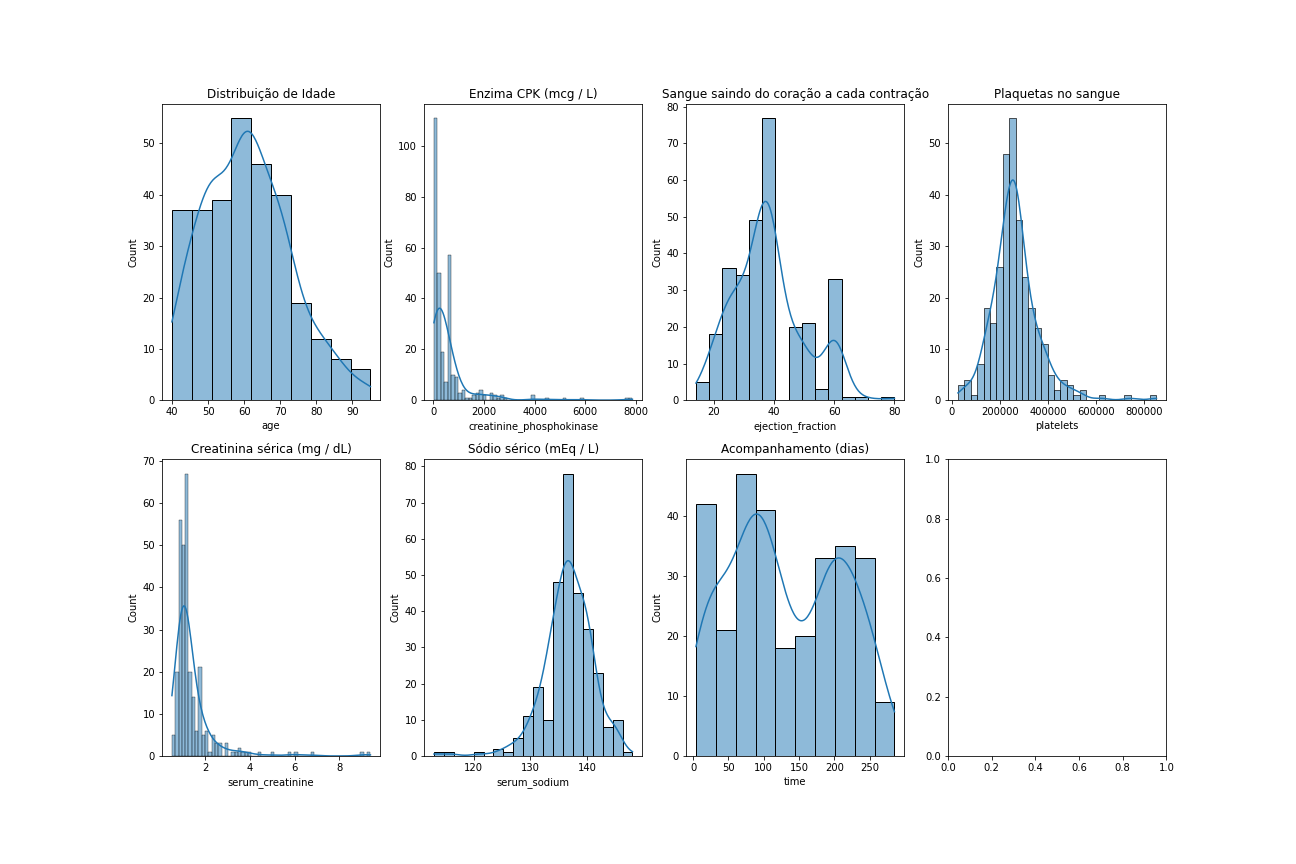
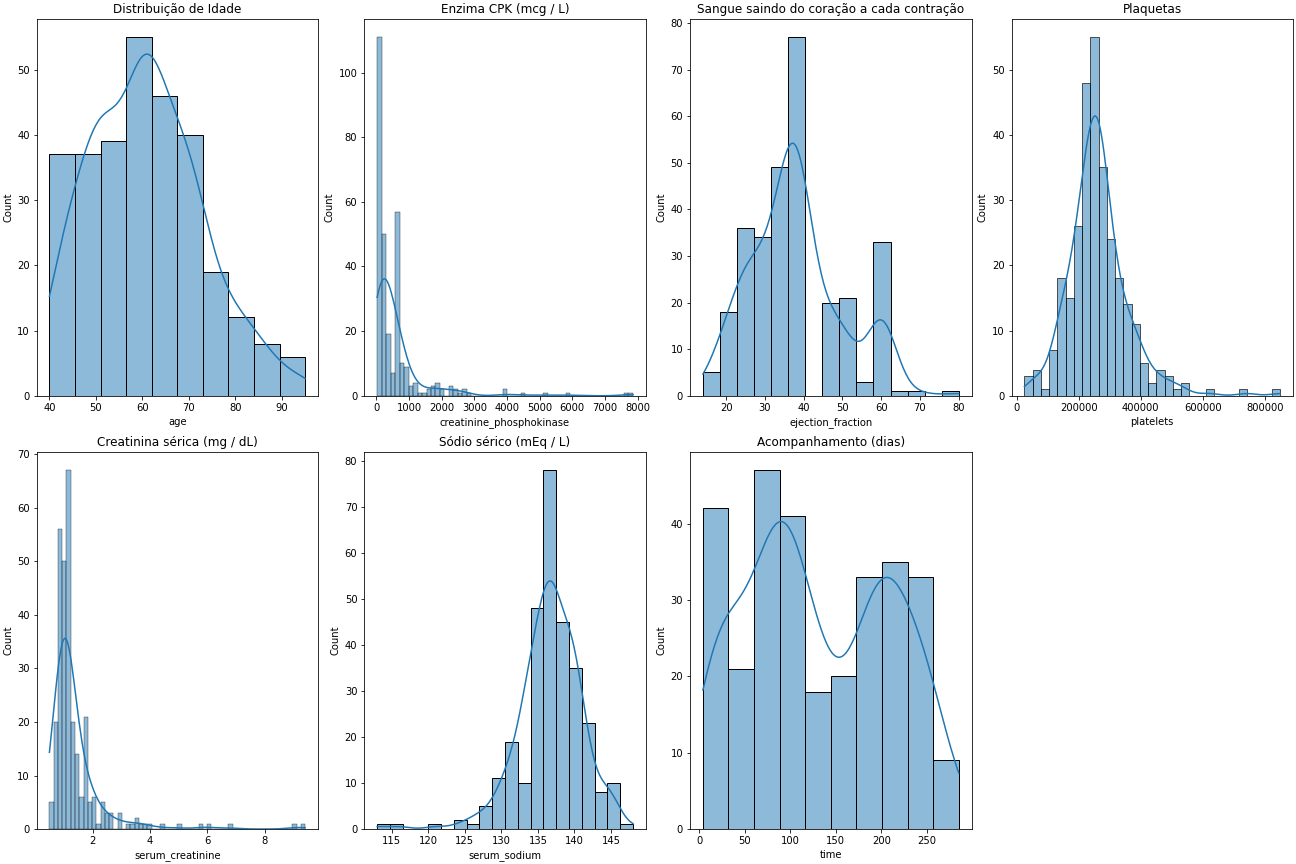
EDA

diff --git a/eda/plots.py b/eda/plots.py
@@ -1,32 +1,114 @@
 
-from utils.file_utils import create_path_if_not_exists
+from matplotlib.figure import Figure
+import matplotlib.pyplot as plt
 import pandas as pd
 import seaborn as sns
-import matplotlib.pyplot as plt
+from matplotlib.gridspec import GridSpec
+from utils.file_utils import create_path_if_not_exists
+
+
+def create_ax(x: int, y: int, title: str, gs: GridSpec, fig: Figure):
+    ax = fig.add_subplot(gs[x, y])
+    ax.set_title(title)
+
+    return ax
 
 
 def feature_distribution(heart_failure: pd.DataFrame):
     path = create_path_if_not_exists('public/img/plots', file_name='distplot.png')
 
-    fig, axes = plt.subplots(ncols=4, nrows=2,  figsize=(18, 12))
+    fig = plt.figure(figsize=(18, 12), constrained_layout=True)
+    gs = GridSpec(2, 4, figure=fig)
 
-    axes[0,0].set_title('Distribuição de Idade')
-    axes[0,1].set_title('Enzima CPK (mcg / L)')
-    axes[0,2].set_title('Sangue saindo do coração a cada contração')
-    axes[0,3].set_title('Plaquetas no sangue')
+    sns.histplot(heart_failure['age'], kde=True,
+                 ax=create_ax(0, 0, 'Distribuição de Idade', gs, fig))
+    sns.histplot(heart_failure['creatinine_phosphokinase'], kde=True,
+                 ax=create_ax(0, 1, 'Enzima CPK (mcg / L)', gs, fig))
+    sns.histplot(heart_failure['ejection_fraction'], kde=True,
+                 ax=create_ax(0, 2, 'Sangue saindo do coração a cada contração', gs, fig))
+    sns.histplot(heart_failure['platelets'], kde=True,
+                 ax=create_ax(0, 3, 'Plaquetas', gs, fig))
 
-    axes[1,0].set_title('Creatinina sérica (mg / dL)')
-    axes[1,1].set_title('Sódio sérico (mEq / L)')
-    axes[1,2].set_title('Acompanhamento (dias)')
+    sns.histplot(heart_failure['serum_creatinine'], kde=True,
+                 ax=create_ax(1, 0, 'Creatinina sérica (mg / dL)', gs, fig))
+    sns.histplot(heart_failure['serum_sodium'], kde=True,
+                 ax=create_ax(1, 1, 'Sódio sérico (mEq / L)', gs, fig))
+    sns.histplot(heart_failure['time'], kde=True,
+                 ax=create_ax(1, 2, 'Acompanhamento (dias)', gs, fig))
 
-    sns.histplot(heart_failure['age'],  kde=True, ax=axes[0, 0])
-    sns.histplot(heart_failure['creatinine_phosphokinase'],  kde=True, ax=axes[0, 1])
-    sns.histplot(heart_failure['ejection_fraction'],  kde=True, ax=axes[0, 2])
-    sns.histplot(heart_failure['platelets'],  kde=True, ax=axes[0, 3])
+    plt.savefig(path)
+    plt.show()
 
-    sns.histplot(heart_failure['serum_creatinine'],  kde=True, ax=axes[1, 0])
-    sns.histplot(heart_failure['serum_sodium'],  kde=True, ax=axes[1, 1])
-    sns.histplot(heart_failure['time'],  kde=True, ax=axes[1, 2])
+
+def box_plot_features(heart_failure: pd.DataFrame):
+    path = create_path_if_not_exists('public/img/plots', file_name='boxplot.png')
+
+    fig = plt.figure(figsize=(18, 12), constrained_layout=True)
+    gs = GridSpec(2, 4, figure=fig)
+
+    sns.boxplot(y=heart_failure['age'],
+                ax=create_ax(0, 0, 'Distribuição de Idade', gs, fig))
+    sns.boxplot(y=heart_failure['creatinine_phosphokinase'],
+                ax=create_ax(0, 1, 'Enzima CPK (mcg / L)', gs, fig))
+    sns.boxplot(y=heart_failure['ejection_fraction'],
+                ax=create_ax(0, 2, 'Sangue saindo do coração a cada contração', gs, fig))
+    sns.boxplot(y=heart_failure['platelets'],
+                ax=create_ax(0, 3, 'Plaquetas no sangue', gs, fig))
+
+    sns.boxplot(y=heart_failure['serum_creatinine'],
+                ax=create_ax(1, 0, 'Creatinina sérica (mg / dL)', gs, fig))
+    sns.boxplot(y=heart_failure['serum_sodium'],
+                ax=create_ax(1, 1, 'Sódio sérico (mEq / L)', gs, fig))
+    sns.boxplot(y=heart_failure['time'],
+                ax=create_ax(1, 2, 'Acompanhamento (dias)', gs, fig))
+
+    plt.savefig(path)
+    plt.show()
+
+
+def scatter_age_x_features(heart_failure: pd.DataFrame):
+    path = create_path_if_not_exists('public/img/plots', file_name='scatter_age.png')
+
+    fig = plt.figure(figsize=(18, 12), constrained_layout=True)
+    gs = GridSpec(2, 3, figure=fig)
+
+    sns.scatterplot(x=heart_failure['age'], y=heart_failure['creatinine_phosphokinase'],
+                    ax=create_ax(0, 0, 'Idade x Enzima CPK (mcg / L)', gs, fig))
+    sns.scatterplot(x=heart_failure['age'], y=heart_failure['ejection_fraction'],
+                    ax=create_ax(0, 1, 'Idade x Sangue saindo do coração a cada contração', gs, fig))
+    sns.scatterplot(x=heart_failure['age'], y=heart_failure['platelets'],
+                    ax=create_ax(0, 2, 'Idade x Plaquetas no sangue', gs, fig))
+
+    sns.scatterplot(x=heart_failure['age'], y=heart_failure['serum_creatinine'],
+                    ax=create_ax(1, 0, 'Idade x Creatinina sérica (mg / dL)', gs, fig))
+    sns.scatterplot(x=heart_failure['age'], y=heart_failure['serum_sodium'],
+                    ax=create_ax(1, 1, 'Idade x Sódio sérico (mEq / L)', gs, fig))
+    sns.scatterplot(x=heart_failure['age'], y=heart_failure['time'],
+                    ax=create_ax(1, 2, 'Idade x Acompanhamento (dias)', gs, fig))
+
+    plt.savefig(path)
+    plt.show()
+
+
+def count_plot_features(heart_failure: pd.DataFrame):
+    path = create_path_if_not_exists('public/img/plots', file_name='count_plot.png')
+
+    fig = plt.figure(figsize=(18, 12), constrained_layout=True)
+    gs = GridSpec(2, 3, figure=fig)
+
+    sns.countplot(x=heart_failure['sex'],
+                    ax=create_ax(0, 0, 'Sexo', gs, fig))
+    sns.countplot(x=heart_failure['smoking'],
+                    ax=create_ax(0, 1, 'Fumante', gs, fig))
+    sns.countplot(x=heart_failure['anaemia'],
+                    ax=create_ax(0, 2, 'Diminuição hemoglobina', gs, fig))
+
+    sns.countplot(x=heart_failure['high_blood_pressure'],
+                    ax=create_ax(1, 0, 'Pressão Alta', gs, fig))
+    sns.countplot(x=heart_failure['diabetes'],
+                    ax=create_ax(1, 1, 'Diabetes', gs, fig))
+    sns.countplot(x=heart_failure['DEATH_EVENT'],
+                    ax=create_ax(1, 2, 'Óbito', gs, fig))
 
     plt.savefig(path)
     plt.show()
@@ -34,3 +116,6 @@ def feature_distribution(heart_failure: pd.DataFrame):
 
 def plots(heart_failure: pd.DataFrame):
     feature_distribution(heart_failure)
+    scatter_age_x_features(heart_failure)
+    box_plot_features(heart_failure)
+    count_plot_features(heart_failure)

diff --git a/main.py b/main.py
@@ -1,9 +1,11 @@
 
+from database.load_dataset import load_dataset
+from eda.plots import plots
 from eda.summary import summary
 from feature_engineering.make_dataset import make_feature_engineering
-from database.load_dataset import load_dataset
-
 
 heart_failure = load_dataset()
 heart_failure = make_feature_engineering(heart_failure)
+
 summary(heart_failure)
+plots(heart_failure)

diff --git a/README.md b/README.md
@@ -14,32 +14,52 @@ pip install -r requirements.txt
 
 Em seguida, é necessário criar uma pasta data/ na raiz do projeto e adicionar os arquivos do [Dataset](https://www.kaggle.com/andrewmvd/heart-failure-clinical-data)
 
+Para rodar todas as funções, basta executar o arquivo main.py
+```
+python main.py
+```
+
+Caso corra o seguinte alerta, basta instalar o python3-tk:  
+```
+UserWarning: Matplotlib is currently using agg, which is a non-GUI backend, so cannot show the figure. 
+```
+
+```bash
+sudo apt-get install python3-tk
+```
+
 # Estrutura do projeto
 
-
+```
 ├── data                    # Arquivos que contem os dados
 ├── database                # Scripts utilizados para carregar os dados
-├── ├── sql                 # .sql files
+|   ├── sql                 # .sql files
 │   ├── import_data.py      # Script de criação do arquivo db.sqlite
 │   └── ...
+├── eda                     # Analise exploratória de dados
+├── feature_engineering     # Engenharia de features e preprocessamento
+├── public                  # Arquivos publics distribuídos pela api
+|   └── img                 # Imagens publicas
+|       └── plots           # Plots
 ├── utils                   # Módulos de utilidade
+```
 
 
 # Dicionário de dados
 
-| Feature                   | Descrição                                                                   | Tipo             |
-| ------------------------- | --------------------------------------------------------------------------- | ---------------- |
-| age                       | Idade da pessoa                                                             | Float            |
-| anaemia                   | Diminuição de glóbulos vermelhos ou hemoglobina                             | Int 0 ou 1       |
-| creatinine_phosphokinase  | Nível da enzima CPK no sangue (mcg / L))                                    | Int              |
-| diabetes                  | Se o paciente tem diabetes                                                  | Int 0 ou 1       |
-| ejection_fraction         | Porcentagem de sangue saindo do coração a cada contração                    | Int              |
-| high_blood_pressure       | Indica se paciente tem pressão alta                                         | Int 0 ou 1       |
-| platelets                 | Plaquetas no sangue (kiloplatelets/mL)                                      | Float            |
-| serum_creatinine          | Nível de creatinina sérica no sangue (mg / dL)                              | Float            |
-| serum_sodium              | Nível de sódio sérico no sangue (mEq / L)                                   | Int              |
-| sex                       | Mulher ou homem                                                             | Int 0 ou 1       |
-| smoking                   | Se paciente fuma ou não                                                     | Int 0 ou 1       |
-| time                      | Período de acompanhamento (dias)                                            | Int              |
-| DEATH_EVENT               | Se o paciente evoluiu a óbito durante o período de acompanhamento \[TARGET] | Int 0 ou 1       |
+| Feature                  | Descrição                                                                   | Tipo       |
+| ------------------------ | --------------------------------------------------------------------------- | ---------- |
+| age                      | Idade da pessoa                                                             | Float      |
+| anaemia                  | Diminuição de glóbulos vermelhos ou hemoglobina                             | Int 0 ou 1 |
+| creatinine_phosphokinase | Nível da enzima CPK no sangue (mcg / L))                                    | Int        |
+| diabetes                 | Se o paciente tem diabetes                                                  | Int 0 ou 1 |
+| ejection_fraction        | Porcentagem de sangue saindo do coração a cada contração                    | Int        |
+| high_blood_pressure      | Indica se paciente tem pressão alta                                         | Int 0 ou 1 |
+| platelets                | Plaquetas no sangue (kiloplatelets/mL)                                      | Float      |
+| serum_creatinine         | Nível de creatinina sérica no sangue (mg / dL)                              | Float      |
+| serum_sodium             | Nível de sódio sérico no sangue (mEq / L)                                   | Int        |
+| sex                      | Mulher ou homem                                                             | Int 0 ou 1 |
+| smoking                  | Se paciente fuma ou não                                                     | Int 0 ou 1 |
+| time                     | Período de acompanhamento (dias)                                            | Int        |
+| DEATH_EVENT              | Se o paciente evoluiu a óbito durante o período de acompanhamento \[TARGET] | Int 0 ou 1 |
 
